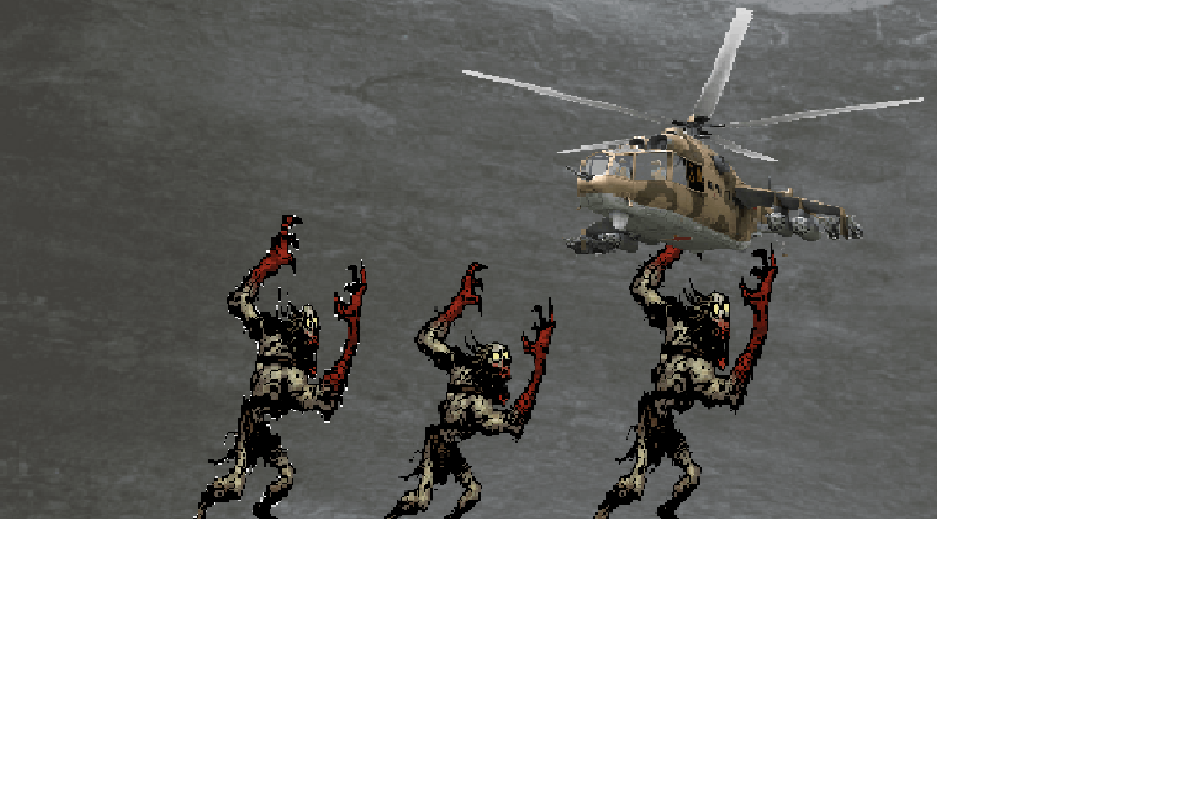
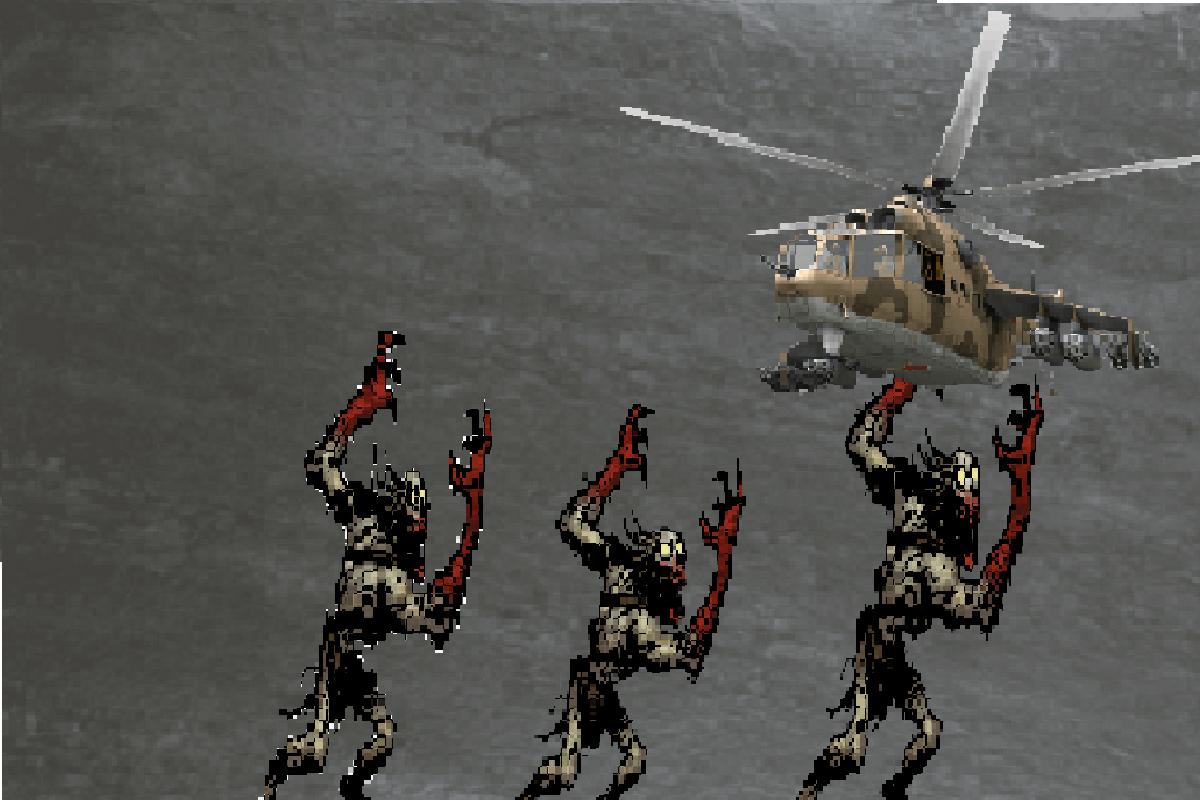
5 commit

diff --git a/maim2.py b/maim2.py
@@ -30,7 +30,10 @@ hero_group = pygame.sprite.Group()
 
 tile_image = {'wall': load_image('wall.png'),
               'empty': load_image('floor.png')}
-player_image = load_image('hero2.png')
+player_image1 = load_image('hero.png')
+player_image2 = load_image('hero4.png')
+player_image3 = load_image('hero2.png')
+player_image4 = load_image('hero3.png')
 
 tile_width = tile_height = 50
 
@@ -69,7 +72,7 @@ class Tile(Sprite):
 class Player(Sprite):
     def __init__(self, pos_x, pos_y):
         super().__init__(hero_group)
-        self.image = player_image
+        self.image = player_image1
         self.rect = self.image.get_rect().move(tile_width * pos_x + 15, tile_height * pos_y + 5)
         self.pos = (pos_x, pos_y)
 
@@ -78,17 +81,34 @@ class Player(Sprite):
         self.rect = self.image.get_rect().move(tile_width * self.pos[0] + 15,
                                                tile_height * self.pos[1] + 5)
 
-        def turn_left(self):
-            self.image = self.image4
+    def turn_left(self):
+        self.image = player_image2
 
-        def turn_right(self):
-            self.image = self.image2
+    def turn_right(self):
+        self.image = player_image3
 
-        def turn_up(self):
-            self.image = self.image3
+    def turn_up(self):
+        self.image = player_image4
 
-        def turn_down(self):
-            self.image = self.image1
+    def turn_down(self):
+        self.image = player_image1
+
+
+class Camera:
+    # зададим начальный сдвиг камеры
+    def __init__(self):
+        self.dx = 0
+        self.dy = 0
+
+    # сдвинуть объект obj на смещение камеры
+    def apply(self, obj):
+        obj.rect.x += self.dx
+        obj.rect.y += self.dy
+
+    # позиционировать камеру на объекте target
+    def update(self, target):
+        self.dx = -(target.rect.x + target.rect.w // 2 - width // 2)
+        self.dy = -(target.rect.y + target.rect.h // 2 - height // 2)
 
 
 def terminate():
@@ -130,6 +150,11 @@ def load_level(filename):
     return list(map(lambda x: list(x.ljust(max_width, '.')), level_map))
 
 
+all_sprites = pygame.sprite.Group()
+tiles_group = pygame.sprite.Group()
+player_group = pygame.sprite.Group()
+
+
 def generate_level(level):
     new_player, x, y = None, None, None
     for y in range(len(level)):
@@ -150,15 +175,20 @@ def move(hero, movement):
     if movement == 'up':
         if y > 0 and level_map[y - 1][x] == '.':
             hero.move(x, y - 1)
+            hero.turn_up()
     elif movement == 'down':
         if y < max_y - 1 and level_map[y + 1][x] == '.':
             hero.move(x, y + 1)
+            hero.turn_down()
     elif movement == 'left':
         if x > 0 and level_map[y][x - 1] == '.':
             hero.move(x - 1, y)
+            hero.turn_left()
     elif movement == 'right':
         if x < max_x - 1 and level_map[y][x + 1] == '.':
             hero.move(x + 1, y)
+            hero.turn_right()
+
 
 
 if __name__ == '__main__':
@@ -168,6 +198,9 @@ if __name__ == '__main__':
     start_screen()
     level_map = load_level('map.txt')
     hero, max_x, max_y = generate_level(level_map)
+
+    camera = Camera()
+
     while ranning:
         for event in pygame.event.get():
             if event.type == pygame.QUIT:
@@ -181,6 +214,12 @@ if __name__ == '__main__':
                     move(hero, 'right')
                 if event.key == pygame.K_a:
                     move(hero, 'left')
+
+            # изменяем ракурс камеры
+            camera.update(hero)
+            # обновляем положение всех спрайтов
+            for sprite in all_sprites:
+                camera.apply(sprite)
         screen.fill(pygame.Color('black'))
         sprite_group.draw(screen)
         hero_group.draw(screen)
